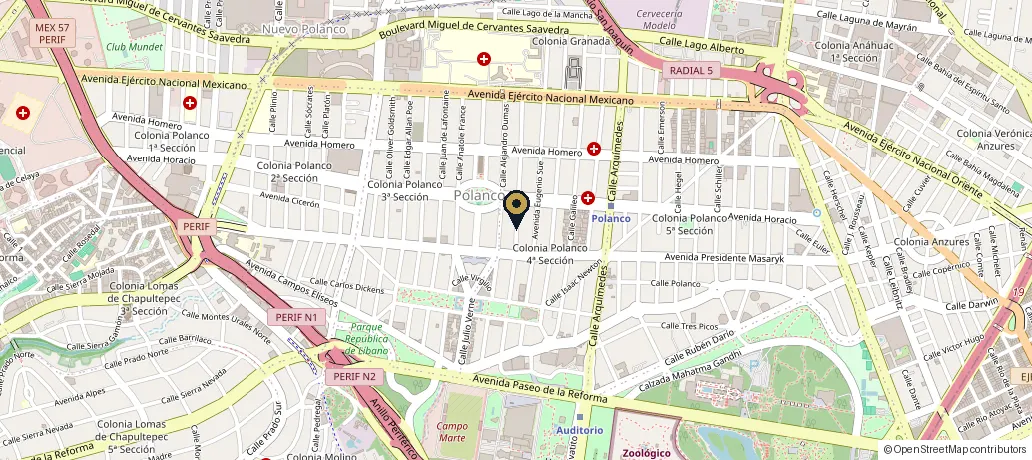
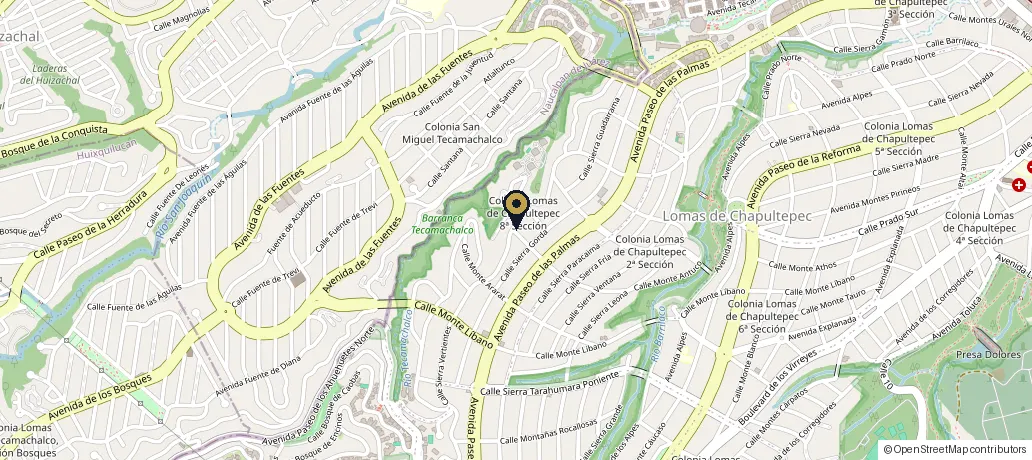
directorio: Club de Banqueros reescrito con datos oficiales — la ficha legacy era fabricada (Masaryk/Polanco inexistente, terraza a Chapultepec, 3 reviews inventadas); real: 16 de Septiembre 27 Centro Histórico, 14 espacios (patio 500), tel [phone redacted], Guardiola/Club B Catering; reubicado + redire

diff --git a/src/content/venues/cdmx/centro-historico/club-de-banqueros.md b/src/content/venues/cdmx/centro-historico/club-de-banqueros.md
@@ -1,0 +1,122 @@
+---
+name: "Club de Banqueros de México"
+slug: "club-de-banqueros"
+description: "El Club de Banqueros de México, fundado en 1941, ocupa una joya arquitectónica virreinal en la calle 16 de Septiembre 27, en pleno Centro Histórico de la Ciudad de México. Ofrece 14 espacios de estilos únicos: 8 salones privados para reuniones íntimas de 2 a 15 personas, 4 salones para eventos de 15 a 200 invitados y un Patio Principal con capacidad de hasta 500 personas. Opera con gastronomía propia a través del Restaurante Guardiola y Club B Catering, y recibe bodas, eventos corporativos, sociales y culturales."
+shortDescription: "Club fundado en 1941 en un edificio virreinal del Centro Histórico: 14 espacios, del privado de 2 personas al Patio Principal de 500."
+
+region: "cdmx"
+zone: "Centro Histórico"
+zoneSlug: "centro-historico"
+address: "16 de Septiembre 27, Centro"
+neighborhood: "Centro"
+postalCode: "06000"
+coordinates:
+  lat: 19.4324
+  lng: -99.1390
+googleMapsUrl: "https://maps.google.com/?q=19.4324317,-99.1389812"
+
+type: "club-privado"
+subtype: "club-social"
+
+capacity:
+  min: 15
+  max: 500
+
+priceRange: "$$$"
+
+amenities:
+  - aire-acondicionado
+  - wifi
+  - area-fotos
+  - acceso-discapacitados
+
+servicesIncluded:
+  - banquete
+  - coordinador
+  - mobiliario-basico
+  - manteleria
+  - vajilla
+  - meseros
+  - seguridad
+  - limpieza
+  - montaje
+  - desmontaje
+
+eventTypes:
+  - bodas
+  - corporativos
+  - cenas-gala
+  - aniversarios
+  - fiestas-privadas
+
+schedule:
+  weekdays: "09:00 - 18:00"
+
+contact:
+  phone: "[phone redacted]"
+  whatsapp: "[phone redacted]"
+  email: "[email redacted]"
+  website: "https://clubdebanqueros.com/"
+  instagram: "@clubdebanquerosmx"
+
+image: "/images/venues/banqueros-hero.avif"
+
+eventechServices:
+  - "iluminacion"
+  - "audiovisual"
+  - "mobiliario"
+
+faqs:
+  - question: "¿Cuántas personas caben en el Club de Banqueros de México?"
+    answer: "El club ofrece 14 espacios de estilos únicos: 8 salones privados para reuniones de 2 a 15 personas, 4 salones para eventos de 15 a 200 invitados y el Patio Principal con capacidad de hasta 500 personas."
+  - question: "¿Dónde está el Club de Banqueros de México?"
+    answer: "En 16 de Septiembre 27, esquina con Bolívar, colonia Centro, alcaldía Cuauhtémoc, CP 06000 — en pleno Centro Histórico de la Ciudad de México, a unos pasos del Zócalo y de la Casa de los Azulejos."
+  - question: "¿Quién opera el banquete del Club de Banqueros?"
+    answer: "La gastronomía es propia del club: el Restaurante Guardiola dentro del mismo edificio y su brazo de banquetes Club B Catering, que atiende bodas, eventos corporativos, sociales y culturales."
+  - question: "¿Qué tipo de eventos recibe el Club de Banqueros?"
+    answer: "Bodas, eventos corporativos y de negocios, celebraciones sociales, cenas de gala y eventos culturales — desde reuniones privadas de 2 personas hasta recepciones de 500 en el Patio Principal. Horario de atención de oficina: lunes a viernes de 9:00 a 18:00 y sábados de 9:00 a 14:00."
+
+seoTitle: "Club de Banqueros de México"
+seoDescription: "Club fundado en 1941 en un edificio virreinal del Centro Histórico: 14 espacios para eventos, del salón privado al Patio Principal de 500 invitados."
+keywords:
+  - club de banqueros de mexico
+  - salones centro historico cdmx
+  - bodas centro historico
+  - eventos corporativos centro cdmx
+  - patio virreinal para eventos
+
+featured: true
+verified: false
+publishedAt: 2026-07-06
+---
+
+## Tradición financiera en un edificio virreinal
+
+El **Club de Banqueros de México** nació en **1941** como el club del gremio financiero del país y ocupa una joya arquitectónica virreinal en la calle **16 de Septiembre 27**, esquina con Bolívar — en el corazón del Centro Histórico, a pasos del Zócalo. Hoy abre sus puertas para eventos sociales, corporativos y culturales con la solemnidad de un recinto con más de ocho décadas de historia.
+
+## Espacios y capacidades
+
+- **8 salones privados** — reuniones íntimas y consejos de **2 a 15 personas**
+- **4 salones de eventos** — de **15 a 200 invitados**
+- **Patio Principal** — el gran espacio virreinal, hasta **500 personas**
+- 14 espacios en total, cada uno con estilo propio
+
+## Banquete y condiciones
+
+Gastronomía propia del club en sus dos brazos: el **Restaurante Guardiola** dentro del mismo edificio y **Club B Catering** para banquetes de bodas, galas y eventos corporativos. Cotizaciones directamente con su equipo de eventos por teléfono, WhatsApp o email; oficina de lunes a viernes de 9:00 a 18:00 y sábados de 9:00 a 14:00.
+
+## Ubicación
+
+16 de Septiembre 27, **Centro**, Cuauhtémoc, CP 06000 — Centro Histórico, entre Bolívar y el eje peatonal de Madero; a una cuadra de la Casa de los Azulejos y del Palacio de Iturbide.
+
+## Producción EVENTECH
+
+- **[Iluminación arquitectónica](/servicios/iluminacion/)** para el Patio Principal virreinal
+- **[Audiovisual](/servicios/audiovisual/)** para congresos y cenas de gala
+- **[Mobiliario](/servicios/mobiliario/)** complementario para montajes de 500 personas
+
+## Venues similares
+
+- **[Casa de los Azulejos](/directorio/cdmx/centro-historico/casa-de-los-azulejos/)** — El palacio vecino sobre Madero
+- **[Palacio de Minería](/directorio/cdmx/centro-historico/palacio-de-mineria/)** — Neoclásico monumental en Tacuba
+- **[Palacio de la Autonomía](/directorio/cdmx/centro-historico/palacio-autonomia/)** — Recinto histórico junto al Zócalo